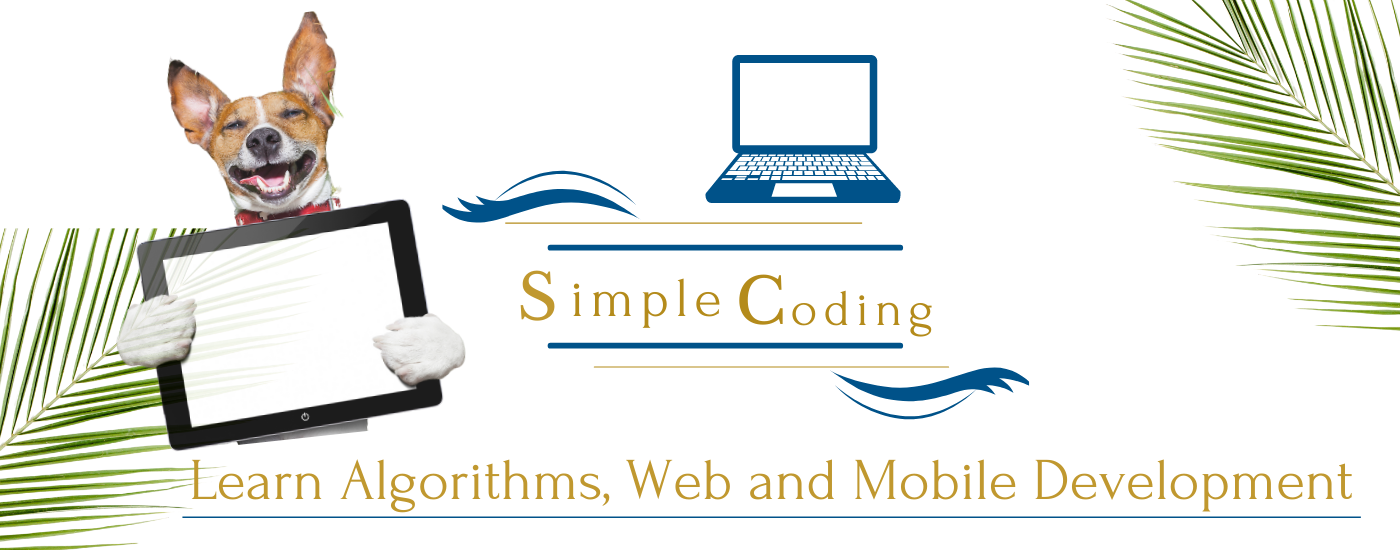
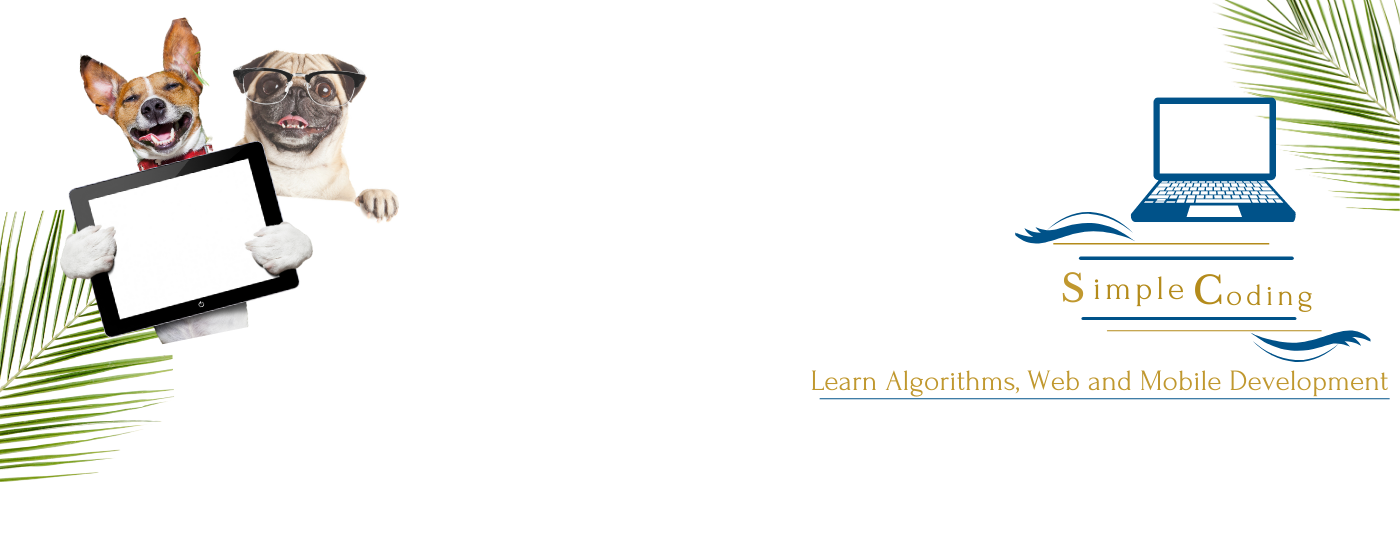
descriptions added

diff --git a/src/views/HomePageView.vue b/src/views/HomePageView.vue
@@ -5,7 +5,7 @@
     <!--Title Row-->
     <div class="row">
       <div class="col-12 pb-5 pt-5">
-        <img src="/assets/homepage.png" class="img-fluid">
+        <img src="/assets/homepage.gif" class="img-fluid">
       </div>
     </div>
     <!--Title Row Ends-->
@@ -16,9 +16,7 @@
       <div class="col-6 text-center">
         <div class="pt-2 pt-md-4 pl-md-4">
           <h4> <router-link to="/frontend" class="card-heading">Learn Frontend</router-link></h4>
-          <p class="card-content pl-md-4 text-left">Lorem ipsum dolor sit amet, consectetur adipisicing elit. Accusamus atque commodi deserunt distinctio
-            doloremque doloribus eaque et hic maiores molestias nihil, quam quis saepe! Doloremque fuga quisquam repellat
-            vitae voluptatum?</p>
+          <p class="card-content pl-md-4 text-left">Do you want to build websites with an amazing user interface? Do you want to have good projects on your resume? We will deep dive into the world of Frontend Development. We will teach you HTML, CSS, JavaScript and Vue.js. We will walk you through complete projects.</p>
         </div>
       </div>
       <!-- Text Div Ends -->
@@ -43,9 +41,7 @@
       <div class="col-6 text-center">
         <div class="pt-2 pt-md-4 pr-md-4">
           <h4><router-link class="card-heading" to="/backend">Learn Backend</router-link></h4>
-          <p class="card-content pr-md-4 text-left">Lorem ipsum dolor sit amet, consectetur adipisicing elit. Accusamus atque commodi deserunt distinctio
-            doloremque doloribus eaque et hic maiores molestias nihil, quam quis saepe! Doloremque fuga quisquam repellat
-            vitae voluptatum?</p>
+          <p class="card-content pr-md-4 text-left">Ever wondered how Facebook works? With a single click, we get all our required information. Here, we will teach you Backend Development with Java Springboot and develop complete projects</p>
         </div>
       </div>
       <!-- Text Div Ends -->
@@ -60,9 +56,7 @@
       <div class="col-6 text-center">
         <div class="pt-2 pt-md-4 pl-md-4">
           <h4><router-link class="card-heading" to="/algorithms">Learn Algorithms</router-link></h4>
-          <p class="card-content pl-md-4 text-left">Lorem ipsum dolor sit amet, consectetur adipisicing elit. Accusamus atque commodi deserunt distinctio
-            doloremque doloribus eaque et hic maiores molestias nihil, quam quis saepe! Doloremque fuga quisquam repellat
-            vitae voluptatum?</p>
+          <p class="card-content pl-md-4 text-left">Algorithms are the solution to all Interview problems. If you want to improve your coding skills and crack your dream job, this is the place to go. We will guide you through the process of solving problems in a technical interview. We will solve Leetcode problems live, give you a platform to run your code and many more.</p>
         </div>
       </div>
       <!-- Text Div Ends -->
@@ -87,9 +81,8 @@
       <div class="col-6 text-center">
         <div class="pt-2 pt-md-4 pr-md-4">
           <h4><router-link class="card-heading" to="/devops">Learn Devops</router-link></h4>
-          <p class="card-content pr-md-4 text-left">Lorem ipsum dolor sit amet, consectetur adipisicing elit. Accusamus atque commodi deserunt distinctio
-            doloremque doloribus eaque et hic maiores molestias nihil, quam quis saepe! Doloremque fuga quisquam repellat
-            vitae voluptatum?</p>
+          <p class="card-content pr-md-4 text-left">Wondered how to make development and deployment faster? Learn DevOps from us to build, test and release your software faster. We will go through Google Cloud Platform, Kubernetes, Docker etc.
+          </p>
         </div>
       </div>
       <!-- Text Div Ends -->
